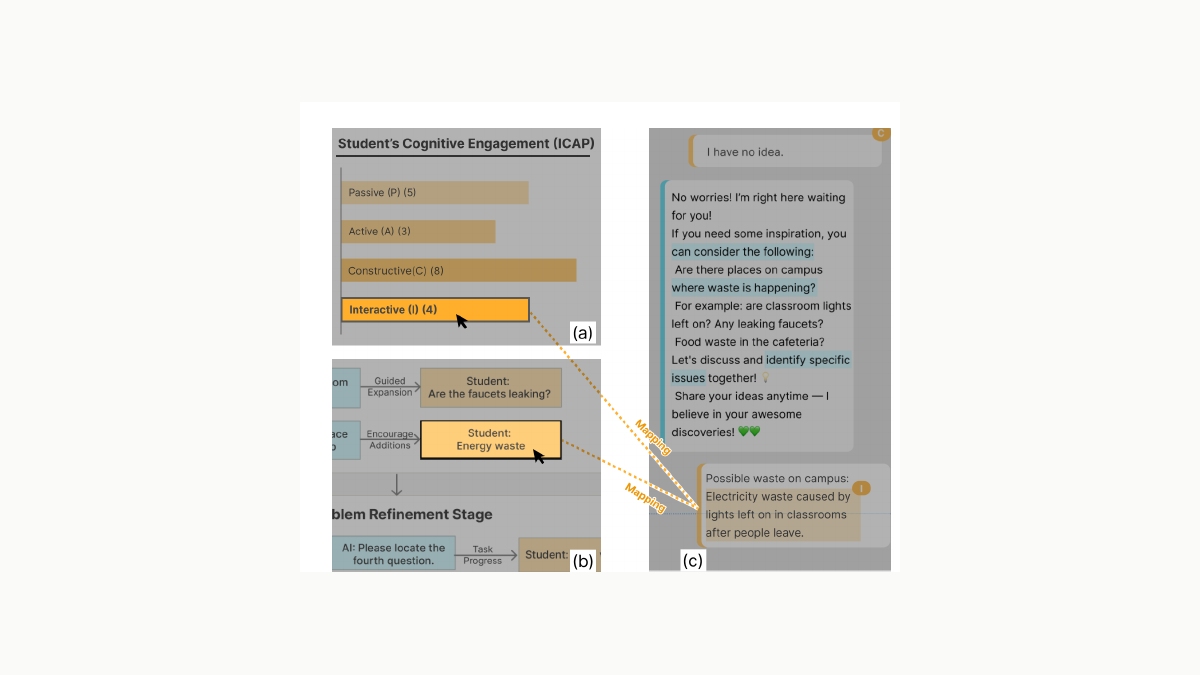
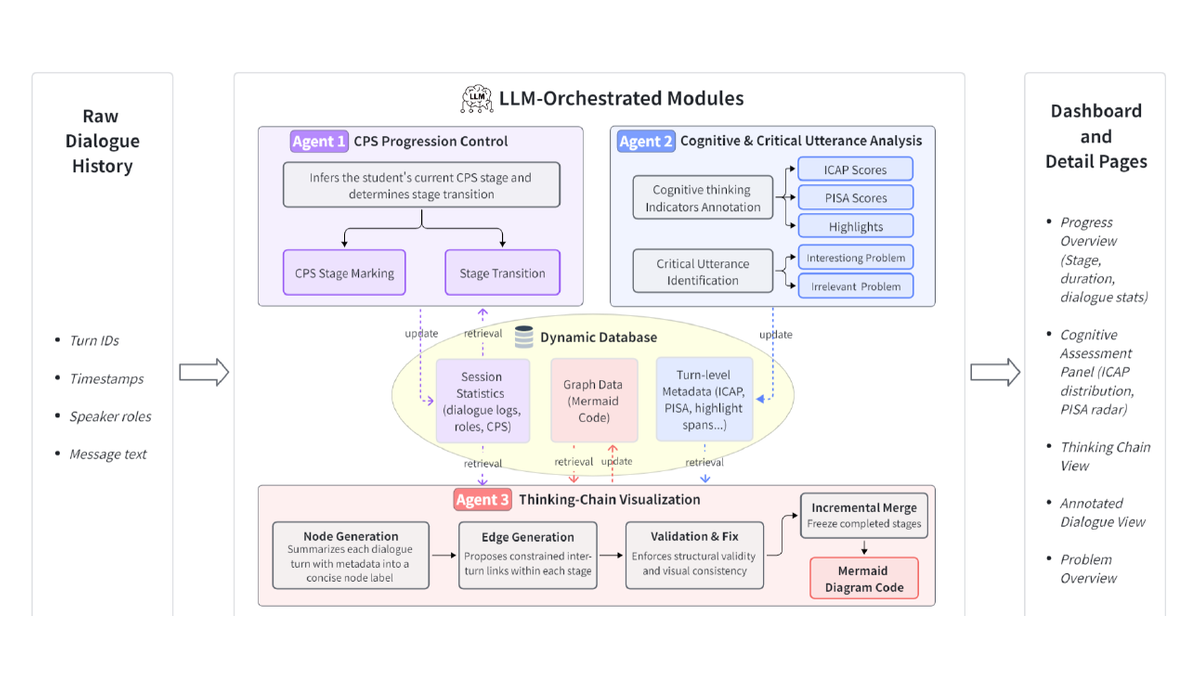
Use source visuals for MindTrace and CuratorGPT

diff --git a/scripts/create_site_images.py b/scripts/create_site_images.py
@@ -203,7 +203,6 @@ def main():
         ("altair.png", "Project", "Altair", PALETTE["deep"], "canon"),
         ("trip-canvas.png", "Project", "Trip Canvas", PALETTE["leaf"], "scrapbook"),
         ("mindtrace.png", "Project", "MindTrace", PALETTE["plum"], "network"),
-        ("curatorgpt.png", "Project", "CuratorGPT", PALETTE["warm"], "archive"),
     ]
     for args in covers:
         if not (COVER_DIR / args[0]).exists():
